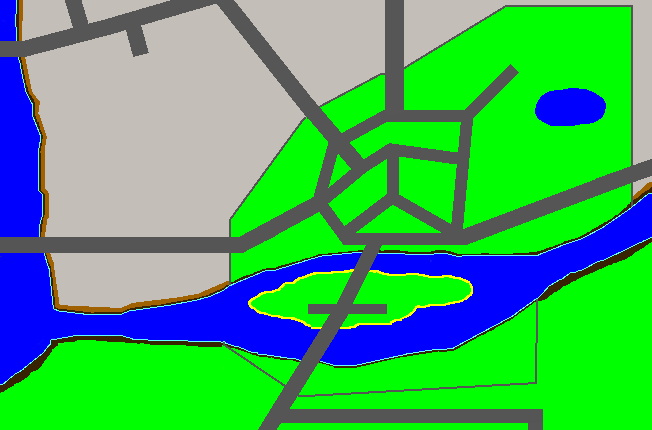
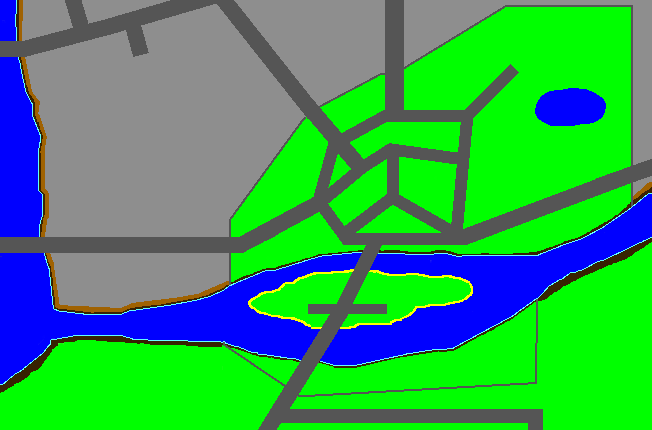
Updated Grass and Wasteland Tiles
Placement Guides for Dubland, Oakwood, HippyVille and the rest of the
Eastbay Wasteland coming soon

New Grass and Concrete tiles, recolored dirt road, sand tiles

Changed region(s): [[0.0307, 0.0, 1.0, 0.7256]]

diff --git a/src/ca/javajesus/level/tile/Tile.java b/src/ca/javajesus/level/tile/Tile.java
@@ -130,7 +130,7 @@ public abstract class Tile {
 	public static final Tile FLOOR_CARPET_1 = new BaseTile(46, 10, 1,
 			new int[] { 0xFF1F7901, 0xFF1F4001, 0xFF000000 }, 0xFF1f7a01);
 	
-	public static final Tile LINOLEUM = new BaseTile(47, 9, 2, new int[] {
+	public static final Tile LINOLEUM = new BaseTile(47, 11, 2, new int[] {
 			0xFFf9ffd8, 0xFF000000, 0xFF000000 }, 0xFFFFFFFF);
 	
 	public static final Tile MOUNTAIN_UP = new BasicSolidTile(50, 5, 2, new int[] {
@@ -141,8 +141,30 @@ public abstract class Tile {
 			0xFF7F7F7F, 0xFFC3C3C3, 0xFF000000 }, 0xFF564015);
 	public static final Tile MOUNTAIN_RIGHT = new BasicSolidTile(53, 7, 2, new int[] {
 			0xFF7F7F7F, 0xFFC3C3C3, 0xFF000000 }, 0xFF5e3f00);
-
-
+	
+	public static final Tile GRASS_POPPY = new BaseTile(54, 16, 1, new int[] {
+			0xFF339933, 0xFF33BB33, 0xFF000000 }, 0xFF00FF00);
+	public static final Tile GRASS4 = new BaseTile(62, 19, 1, new int[] {
+			0xFF339933, 0xFF33BB33, 0xFF000000 }, 0xFF00FF00);
+	public static final Tile GRASS5 = new BaseTile(63, 20, 1, new int[] {
+			0xFF339933, 0xFF33BB33, 0xFF000000 }, 0xFF00FF00);
+	
+	
+	public static final Tile WASTELAND_GROUND1 = new BaseTile(55, 12, 1, new int[] {
+			0xFFa7a7a7, 0xFF000000, 0xFF000000 }, 0xFF8e8e8e);
+	public static final Tile WASTELAND_GROUND2 = new BaseTile(56, 13, 1, new int[] {
+			0xFFa7a7a7, 0xFF000000, 0xFF000000 }, 0xFF8e8e8e);
+	public static final Tile WASTELAND_GROUND3 = new BaseTile(57, 14, 1, new int[] {
+			0xFFa7a7a7, 0xFF000000, 0xFF000000 }, 0xFF8e8e8e);
+	public static final Tile WASTELAND_GROUND4 = new BaseTile(58, 15, 1, new int[] {
+			0xFFa7a7a7, 0xFF000000, 0xFF000000 }, 0xFF8e8e8e);
+	public static final Tile WASTELAND_GROUND5 = new BaseTile(59, 0, 2, new int[] {
+			0xFF8e8e8e, 0xFF000000, 0xFF000000 }, 0xFF8e8e8e);
+	public static final Tile WASTELAND_GROUND6 = new BaseTile(60, 17, 1, new int[] {
+			0xFF8e8e8e, 0xFF000000, 0xFF000000 }, 0xFF8e8e8e);
+	public static final Tile WASTELAND_GROUND7 = new BaseTile(61, 18, 1, new int[] {
+			0xFF8e8e8e, 0xFF000000, 0xFF000000 }, 0xFF8e8e8e);
+	
 	protected byte id;
 	protected boolean solid;
 	protected boolean emitter;

diff --git a/src/ca/javajesus/level/generation/HeightMap.java b/src/ca/javajesus/level/generation/HeightMap.java
@@ -13,12 +13,25 @@ public class HeightMap {
 	private ArrayList<Point> finalVillageCenters = new ArrayList<Point>();
 
 	Random random = new Random();
-
+	
+	//Grass Tiles
 	protected final byte GRASS = 0;
 	protected final byte GRASS2 = 9;
 	protected final byte GRASS3 = 10;
 	protected final byte GRASS_FLOWER = 11;
-
+	protected final byte GRASS_POPPY = 12;
+	protected final byte GRASS4 = 13;
+	protected final byte GRASS5 = 14;
+	
+	//Concrete/Wasteland Tiles
+	protected final byte WASTELAND_GROUND1 = 15;
+	protected final byte WASTELAND_GROUND2 = 16;
+	protected final byte WASTELAND_GROUND3 = 17;
+	protected final byte WASTELAND_GROUND4 = 18;
+	protected final byte WASTELAND_GROUND5 = 19;
+	protected final byte WASTELAND_GROUND6 = 20;
+	protected final byte WASTELAND_GROUND7 = 21;
+	
 	protected final byte SAND = 1;
 	protected final byte ROCK = 2;
 	protected final byte DIRT = 3;
